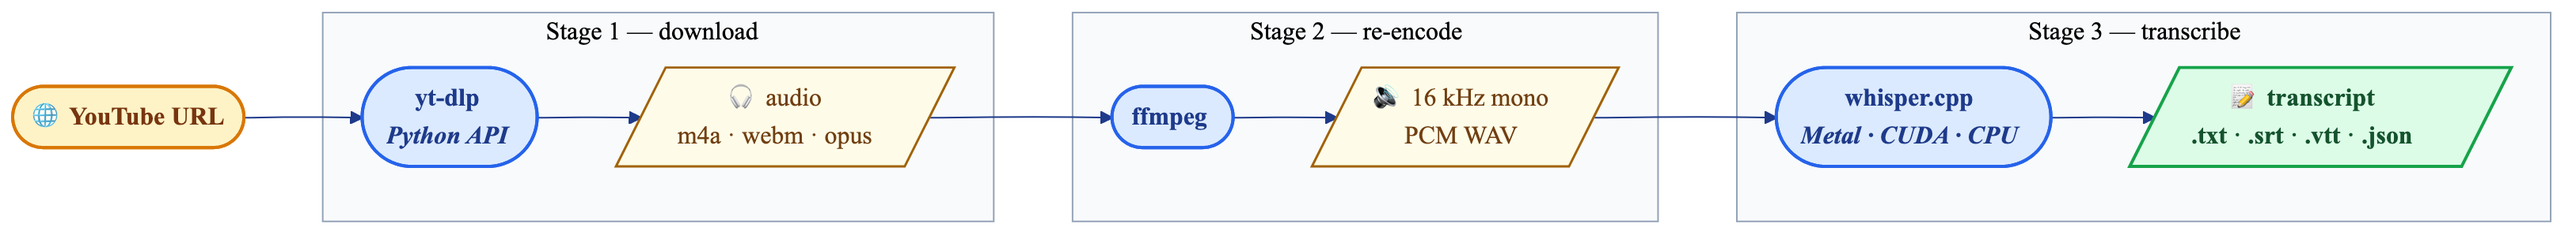
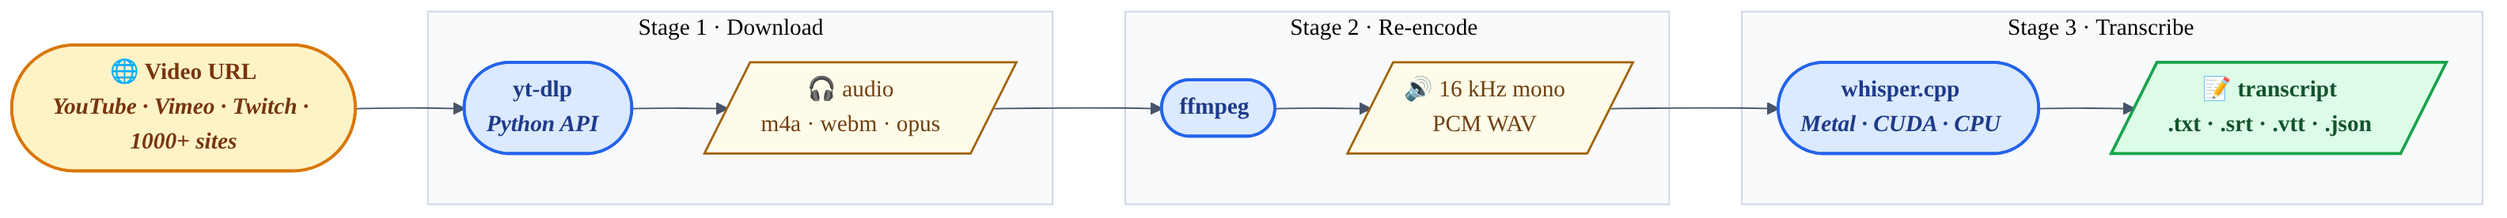
docs: broaden from YouTube-only to yt-dlp's full site support + redesign architecture diagrams (#9)
- Update README tagline, description, and examples to reflect support for
  YouTube, Vimeo, Twitch, Twitter/X, and 1000+ other sites via yt-dlp
- Update pyproject.toml description and keywords accordingly
- Remove all em dashes from README (user preference)
- Redesign all three Mermaid architecture diagrams with cleaner styling
  (pipeline, architecture, sequence) and regenerate PNGs
- Update GitHub repository topics: remove 'youtube', add 'video', 'vimeo',
  'twitch', 'privacy'

diff --git a/README.md b/README.md
@@ -1,6 +1,8 @@
 # localcaption
 
-> Paste a YouTube URL, get a transcript. **Fully local, no API keys.**
+> Paste a video URL, get a transcript. **Fully local, no API keys.**
+>
+> Works with YouTube, Vimeo, Twitch, Twitter/X, and [1000+ other sites](https://github.com/yt-dlp/yt-dlp/blob/master/supportedsites.md) via yt-dlp.
 
 <!-- Package: where to get it, what versions, what license -->
 [![PyPI version](https://img.shields.io/pypi/v/localcaption?logo=pypi&logoColor=white&color=%233775A9&cacheSeconds=300)](https://pypi.org/project/localcaption/)
@@ -22,7 +24,7 @@
 
 | Stage | Tool |
 |---|---|
-| Download bestaudio | [`yt-dlp`](https://github.com/yt-dlp/yt-dlp) |
+| Download best audio | [`yt-dlp`](https://github.com/yt-dlp/yt-dlp) (YouTube, Vimeo, Twitch, 1000+ sites) |
 | Re-encode to 16 kHz mono WAV | [`ffmpeg`](https://ffmpeg.org/) |
 | Transcribe locally | [`whisper.cpp`](https://github.com/ggerganov/whisper.cpp) |
 
@@ -52,7 +54,7 @@ pipx install localcaption
 
 The first time you run `localcaption <url>` it will tell you it can't find
 `whisper.cpp`. The fastest way to set it up is to let `localcaption` do it
-itself — clone, build, and download the default model in one shot:
+itself: clone, build, and download the default model in one shot:
 
 ```bash
 localcaption doctor --fix          # ~2 min on an M-series Mac
@@ -67,10 +69,10 @@ diagnostics to confirm everything works. Pick a different model with
 Prefer to do it yourself? Two equivalent options:
 
 ```bash
-# Option A — bootstrap script (also installs pipx + the localcaption package):
+# Option A: bootstrap script (also installs pipx + the localcaption package):
 curl -fsSL https://raw.githubusercontent.com/jatinkrmalik/localcaption/main/scripts/install.sh | bash
 
-# Option B — DIY, anywhere you like:
+# Option B: DIY, anywhere you like:
 git clone https://github.com/ggerganov/whisper.cpp /path/to/whisper.cpp
 cd /path/to/whisper.cpp && cmake -B build && cmake --build build -j --config Release
 bash models/download-ggml-model.sh base.en
@@ -78,7 +80,7 @@ export LOCALCAPTION_WHISPER_DIR=/path/to/whisper.cpp   # add to your shell rc
 ```
 
 > 💡 The `install.sh` bootstrap is just `pipx install localcaption` followed
-> by `localcaption doctor --fix` — same logic, single source of truth.
+> by `localcaption doctor --fix`, same logic, single source of truth.
 > Override the default model with `WHISPER_MODEL=small.en bash install.sh`.
 
 After install, verify everything is wired up:
@@ -91,7 +93,7 @@ localcaption doctor --fix          # diagnostic + auto-repair anything missing
 ### Uninstall
 
 To completely remove `localcaption` and everything it installed (the
-binary, whisper.cpp build, and ggml models — about 200 MB total):
+binary, whisper.cpp build, and ggml models (about 200 MB total):
 
 ```bash
 # pipx + whisper.cpp + models, with confirmation prompts:
@@ -130,7 +132,7 @@ All checks passed. You're good to go: localcaption <url>
 
 If anything is missing, re-run with `--fix` and `localcaption` will install
 the missing system deps (via `brew`/`apt`), clone+build whisper.cpp, and
-download the default model — then re-verify:
+download the default model, then re-verify:
 
 ```bash
 localcaption doctor --fix                      # repair everything
@@ -157,7 +159,11 @@ and editable-installs the package so source edits take effect immediately.
 ### CLI
 
 ```bash
+# YouTube
 localcaption "https://www.youtube.com/watch?v=dQw4w9WgXcQ"
+
+# Vimeo, Twitch, Twitter/X, and 1000+ other sites work too
+localcaption "https://vimeo.com/148751763"
 ```
 
 | flag | default | what it does |
@@ -226,10 +232,10 @@ localcaption --model small.en --auto-download "https://www.youtube.com/..."
 |---|---|---|
 | `tiny.en` | 75 MB | Quick drafts, English only, low-resource environments |
 | `base.en` | 142 MB | Current install default, fast & decent |
-| `small.en` | 466 MB | **Recommended for English** — great accuracy/speed balance |
+| `small.en` | 466 MB | **Recommended for English**, great accuracy/speed balance |
 | `medium.en` | 1.5 GB | High accuracy English, ~3× slower than `small.en` |
 | `large-v3` | 3.0 GB | Best accuracy, multilingual, slow |
-| `large-v3-turbo` | 1.6 GB | Near-large quality at ~half the size — great compromise |
+| `large-v3-turbo` | 1.6 GB | Near-large quality at ~half the size, great compromise |
 
 Models without the `.en` suffix are multilingual (required for non-English audio).
 
@@ -290,9 +296,9 @@ order-of-magnitude reference, not a competitive benchmark.
 
 | Video | Length | Wall-clock | Speed vs. realtime | Hardware |
 |---|---|---|---|---|
-| [TED-Ed — *How does your immune system work?*](https://www.youtube.com/watch?v=PSRJfaAYkW4) | 5:23   | **7.5 s**  | ~43× | MacBook Pro M4 Pro, 48 GB |
-| [3Blue1Brown — *But what is a Neural Network?*](https://www.youtube.com/watch?v=aircAruvnKk) | 18:40  | **19.3 s** | ~58× | MacBook Pro M4 Pro, 48 GB |
-| [Hasan Minhaj × Neil deGrasse Tyson — *Why AI is Overrated*](https://www.youtube.com/watch?v=BYizgB2FcAQ) | 54:17 | **49.8 s** | ~65× | MacBook Pro M4 Pro, 48 GB |
+| [TED-Ed: *How does your immune system work?*](https://www.youtube.com/watch?v=PSRJfaAYkW4) | 5:23   | **7.5 s**  | ~43× | MacBook Pro M4 Pro, 48 GB |
+| [3Blue1Brown: *But what is a Neural Network?*](https://www.youtube.com/watch?v=aircAruvnKk) | 18:40  | **19.3 s** | ~58× | MacBook Pro M4 Pro, 48 GB |
+| [Hasan Minhaj × Neil deGrasse Tyson: *Why AI is Overrated*](https://www.youtube.com/watch?v=BYizgB2FcAQ) | 54:17 | **49.8 s** | ~65× | MacBook Pro M4 Pro, 48 GB |
 
 <details>
 <summary>Reproduce</summary>
@@ -320,11 +326,12 @@ hardware in the **Hardware** column.
 
 - Bigger models = better quality but slower. `base.en` is a good default;
   try `small.en` if you have the patience and `tiny.en` for instant results.
-- Apple Silicon: whisper.cpp's CMake build uses Metal automatically — you'll
+- Apple Silicon: whisper.cpp's CMake build uses Metal automatically, you'll
   see `ggml_metal_init` in the logs.
-- The pipeline accepts any URL `yt-dlp` supports (Vimeo, Twitch VODs, podcast
-  pages, etc.), not just YouTube.
-- If you hit `HTTP 403 Forbidden`, your `yt-dlp` is probably stale —
+- The pipeline accepts any URL `yt-dlp` supports (Vimeo, Twitch VODs, Twitter/X,
+  podcast pages, and [1000+ more](https://github.com/yt-dlp/yt-dlp/blob/master/supportedsites.md)),
+  not just YouTube.
+- If you hit `HTTP 403 Forbidden`, your `yt-dlp` is probably stale.
   `pip install -U yt-dlp` usually fixes it.
 
 ## Roadmap
@@ -348,7 +355,7 @@ criteria, and discussion):
 | ~~[#1](https://github.com/jatinkrmalik/localcaption/issues/1)~~ | ~~Switch default model from `base.en` to `small.en`~~ | _superseded by #7_ |
 
 **Have an idea?** Open a
-[feature request](https://github.com/jatinkrmalik/localcaption/issues/new/choose) —
+[feature request](https://github.com/jatinkrmalik/localcaption/issues/new/choose),
 or jump into [Discussions](https://github.com/jatinkrmalik/localcaption/discussions)
 if you want to chat about it first.
 
@@ -356,16 +363,16 @@ if you want to chat about it first.
 
 `localcaption` deliberately stays tiny. If you want more, check out:
 
-- [`whishper`](https://github.com/pluja/whishper) — full web UI for local
+- [`whishper`](https://github.com/pluja/whishper): full web UI for local
   transcription with translation and editing.
-- [`transcribe-anything`](https://github.com/zackees/transcribe-anything) —
+- [`transcribe-anything`](https://github.com/zackees/transcribe-anything):
   multi-backend, Mac-arm optimised, supports URLs.
-- [`WhisperX`](https://github.com/m-bain/whisperX) — word-level timestamps and
+- [`WhisperX`](https://github.com/m-bain/whisperX): word-level timestamps and
   diarisation on top of openai-whisper.
 
 ## Contributing
 
-Pull requests welcome — see [CONTRIBUTING.md](CONTRIBUTING.md). By
+Pull requests welcome! See [CONTRIBUTING.md](CONTRIBUTING.md). By
 participating you agree to abide by our
 [Code of Conduct](CODE_OF_CONDUCT.md).
 
